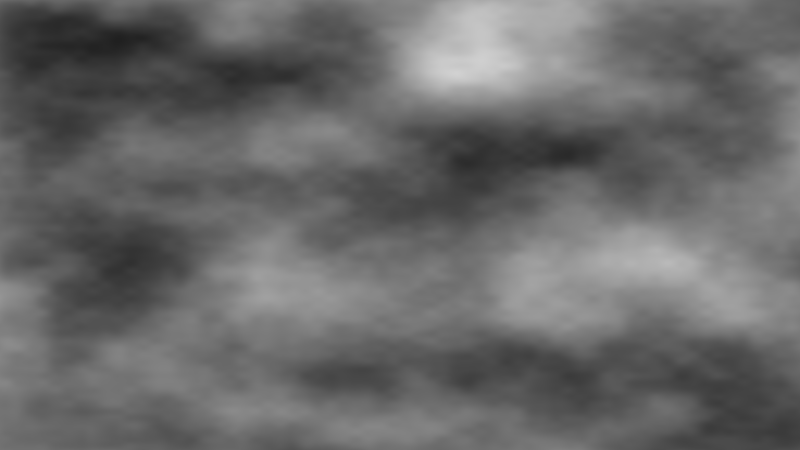
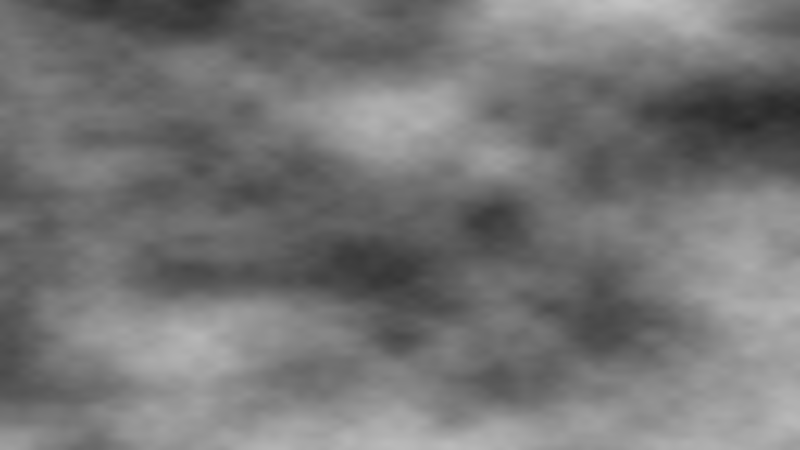
update images

diff --git a/apps/docs/scripts/generate-previews.ts b/apps/docs/scripts/generate-previews.ts
@@ -6,8 +6,7 @@ import * as http from 'http';
 import { PNG } from 'pngjs';
 
 async function generatePreviews() {
-  const _examples = getAllExamples();
-  const examples = [_examples[0]]
+  const examples = getAllExamples();
   const outputDir = path.join(__dirname, '../public/examples');
   
   // Ensure output directory exists
@@ -62,10 +61,11 @@ async function generatePreviews() {
     console.log(`Generating preview for: ${example.slug}`);
     
     try {
-      // Get code for this example
-      let code = example.executable ? example.code : '';
-      if (!example.executable && example.shader) {
-        // This shouldn't happen anymore - all examples should have code
+      // Get code for this example - all examples now have code property
+      let code = example.code;
+      
+      if (!code && example.shader) {
+        // Fallback for examples that only have shader (shouldn't happen anymore)
         console.warn(`Example ${example.slug} missing code, using shader fallback`);
         code = `
 const ctx = await gpu.init(canvas, { dpr: 1, autoResize: true });
@@ -73,7 +73,7 @@ const pass = ctx.pass(\`${example.shader.replace(/`/g, '\\`')}\`${example.unifor
 
 function frame() {
   pass.draw();
-  ${example.animated ? 'requestAnimationFrame(frame);' : ''}
+  requestAnimationFrame(frame);
 }
 frame();
         `;
@@ -92,9 +92,11 @@ frame();
       });
       
       // Wait for rendering (longer for complex examples)
-      const isComplex = example.slug === 'fluid' || example.slug === 'alien-planet' || example.slug === examples[0].slug;
-      await page.waitForTimeout(isComplex ? 5000 : (example.animated ? 3000 : 1500));
-      await page.waitForTimeout(5);
+      const isComplex = example.slug === 'fluid' || example.slug === 'alien-planet' || example.slug === "triangle-particles";
+      if(isComplex) {
+        await page.waitForTimeout(3000)
+      }
+      await page.waitForTimeout(example.animated ? 6000 : 1000);
       
       // Screenshot the canvas
       const canvas = await page.$('canvas');
